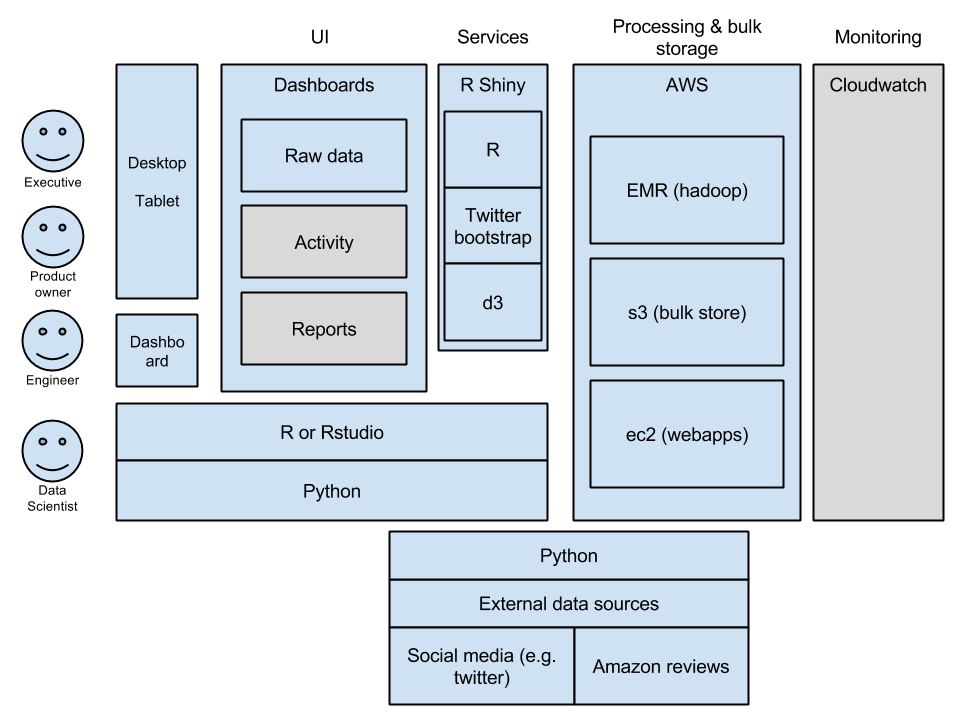
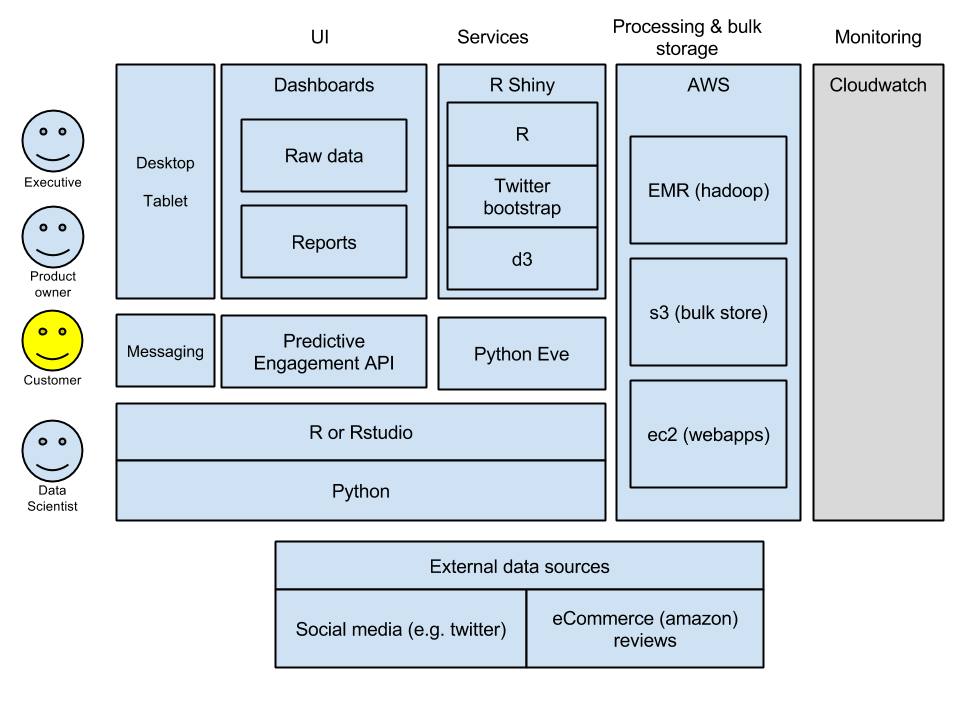
updated content and added more images

diff --git a/index.html b/index.html
@@ -31,39 +31,70 @@
     <!-- MAIN CONTENT -->
     <div id="main_content_wrap" class="outer">
       <section id="main_content" class="inner">
-        <h3>Overview of solution</h3>
-        <p>Executive overview</p>
-        <p>This is the submission for the Skullcandy dataset for the Big Mountain Data Competition.</p>
+        <h3>Executive overview</h3>
+        <p>This is our submission for the Skullcandy dataset for the Big Mountain Data Competition. We have taken careful consideration of both the questions posed in the competition documents, the kinds of data we could go after for a POC that would require minimal additional input from Skullcandy, and what we have seen in the way of trends at Skullcandy at large. We think there is a strong case to be made for greater involvement of predictive analytics in supporting Skullcandy’s ecommerce business and in establishing a strong Skullcandy customer electronics brand synonymous with personalized, individual, high-energy, and somewhat irreverent.</p>
+        <p>Our solution recommends incorporating BigData collection and predictive analytics at various customer touch points:</p>
         <ul>
-          <li>Using bigdata and machine learning methodologies to improve and simplify the process of managing brand image with multiple target audiences</li>
-          <li>Using bigdata and machine learning methodologies to identify key "archetype" individuals/muses wanting to engage with your brand</li>
-          <li>Using cloud resources to develop a cost effective POC for data collection, processing, and real-time responsive engagement from Skullcandy to their target audiences</li>
+          <li>Customer satisfaction and follow up surveys that allow for social media data gathering</li>
+          <li>Market validation surveys (e.g. buds subscription services) that allow for social media data gathering</li>
+          <li>Customer off-website (e.g. social media) engagement that uses dynamic messaging predicted to increase brand loyalty and begin fostering new customers</li>
+          <li>Personalized Amazon/ecommerce check-out experience with offers that are a reflection of predicted customer lifetime value</li>
         </ul>
-        <img src="images/bmdc_arch.png">j
-<p>Team members:</p>
+        <h3>Details regarding the submission</h3>
+        <p>We feel that with any solution that leverages BigData and machine learning (advanced analytics) there is a maturation that takes place in an organization. This maturation is the process of going from being reactive and primarily relying on domain expertise and instincts to leveraging sophisticated analyitics as a distinct competitive advantage. As an organization grows it’s need for sophisticated analytics it usually happens as the organization seeks the answer more and more difficult questions such as those proposed by Harris & Davenport in their book “Competing on Analyitics: The New Science of Winning”:</p>
+        <ol>
+          <li>Why is this happening? (statistical analysis)</li>
+          <li>What if these trends continue? (forecasting)</li>
+          <li>What will happen next? (predictive modeling)</li>
+          <li>What is the best that can happen? (optimization)</li>
+        </ol>
+        <p>In our proposed solutions we concentrated on how Skullcandy might use advanced analytics to support their growing efforts at creating a brand focused company in addition to being an ecommerce company. We feel that with Skullcandy’s trackrecord in the market-place that they potentially could juggle several facets of their brand image with help from advanced analytics. This would avail them of the option of attacking several target audiences to help Skullcandy establish a brand that is about consumer electronics that are personal, individualized, high-energy, and irreverent.</p>
+        <p>If Skullcandy were simply a one-dimensional brand focused on say, hip-hop culture, having supportive analytics would be helpful but not crucial to success. But Skullcandy appears to be taking a much more ambitious route: personalization. This does not mean that the Skullcandy’s brand need be dilute, just the opposite. By being about personal taste and by giving customers a way to express themselves Skullcandy could become an extension of each of their customers’ personal image -- potentially a very strong brand.</p>
+        <p>Digesting and reacting to the information needed to pull this off is a problem ideally situated to be supported by BigData and machine learning analytics.</p>
+        <p>In our solution we have developed an early POC of how Skullcandy might:</p>
+        <ul>
+          <li>Use BigData collection to improve and simplify the process of discovering how users perceive and engage with Skullcandy</li>
+          <li>Use real-time, predictive, analytics to identify “natural” clusters of users that fit an "archetype" user</li>
+          <li>Compare “archetype” users to internal “muses” or target audiences to help dial-in dynamic messaging and placement</li>
+          <li>Use predictive analytics to target key audiences in specific situations (e.g. male snowboarder that is a likely customer that just posted about a day on the slopes)</li>
+          <li>Use cloud resources to develop a cost effective, production ready, POC for data collection, data processing, and creating real-time responsive engagement from Skullcandy to their target audiences</li>
+        </ul>
+        <h3>Summary of Deliverables and Recommendations</h3>
+        <h4>Using predictive analytics in establishing Skullcandy's brand and improving the e-commerce experience</h4>
+        <img src="Engagement.png">
+        <p>To help compare brands and their relationships to dominant target audiences we provide the following dashboard. This dashboard lets you interactively visualize the brand and customer segments. We explain this dashboard in further detail <a href="#walkthrough">below</a>.</p>
+        <p><a href="http://ec2-54-188-7-50.us-west-2.compute.amazonaws.com:3838/shiny-app/">Click here to see live dashboard</a></p>
+        <a href="http://ec2-54-188-7-50.us-west-2.compute.amazonaws.com:3838/shiny-app/">
+        <h4>Example data collection with a focus on engagement</h4>
+        <p>We recommend using a satisfaction survey or market survey with social login to collect additional information on your core customer base. We built this simple app in Python Django framework to help with the data collection from Twitter.</p>
+        <p><a href="http://ec2-54-202-248-221.us-west-2.compute.amazonaws.com/">Click here to see live demo survey app</a></p>
+        <img src="twitter-survey-app.png">
+        <h4>Example dynamic messaging with predictive social engagement</h4>
+        <img src="example.png">
+        <h4>Example predictive engagement</h4>
+        <p>Last, we suggest a simple but very effective social engagement strategy. During the checkout process, a customer can choose to share their excitement of the purchase with their facebook friends or twitter followers. In doing so we can predict the lifetime value of that customer and provide an immediate incentive. In return we collect additional information about them through increased access to their social data as well as immediate boost in grassroots marketing.</p>
+        <p>Below is an image of a similar type of engagement already common in Amazon’s checkout process.</p>
+        <img src="amazonthanks.png">
+        <h3>Technical overview</h3>
+        <img src="bmdc_skullcandy.png">
+        <h3 id="walkthrough">Brand comparision app walkthrough</h3>
+        <p>The app is an interactive tool for exploring relative differences in customer engagement on each of the relevant brands.</p>
+        <img src="dasboard.png">
+        <p>An overall sentiment score is presented over time as computed by the total aggregate of relevant product reviews on Amazon. A similar score can be plotted by scoring relevent tweets or other social feeds over time.</p>
+        <img src="brand-sentiment.png">
+        <h4>Main social sentiment trend lines over time</h4>
+        <p>It is important to react to and engage with customers and potential customers in their channels. The next section helps sort through the noise to identify key drivers in overall brand sentiment. Sorting and clustering these help identify key trends in products or product categries.</p>
+        <img src="product-reviews.png">
+        <h4>Segmenting customers and competitors' customers</h4>
+        <p>Segmenting your entire customer base helps identify strengths and opportunities. Being able to compare your customer segments to those same segments of your competitors is huge insight. The final section helps you see how your twitter followers overlap with those followers of other key brands.</p>
+        <h4>Social sentiment dashboard app</h4>
+        <img src="dashboard.png"></a>
+<h3>Team members:</h3>
 <ul>
   <li><a href="http://www.linkedin.com/in/altonalexander">Alton Alexander</a></li>
   <li><a href="http://www.linkedin.com/pub/brett-denney/19/46a/207">Brett Denney</a></li>
   <li><a href="http://www.linkedin.com/in/davidbgonzalez">David Gonzalez</a></li>
 </ul>
-
-<h3>Skullcandy's problem statements and our proposed solutions</h3>
-    <h4>Problem 1: Who are the non-customers who follow us and visit the same websites as our customers?</h4>
-    <p>We decided that it with the dataset available and the data we could go after to take a look at Skullcandy's twitter followers and to build a generalized profile of those individuals. From there we collected information about individuals following Skullcandy's competition. What we were able to generate is a dashboard that helps to visuzalize how Skullcandy's followers engage the compettion as well as why types types of individuals follow the competition but do not follow Skullcandy.</p>
-    <p>How are followers and non-followers similar/different?</p>
-    <h4>Problem 2: Who might be interested in a buds "subscription"?</h4>
-    <p>Who are the heavy users? Customer IDs with multiple purchases</p>
-    <h4>Problem 3:</h4>
-    <h5>Can we correlate competitor sentiment with their sales (NPD Data) or with our sales?</h5>
-    <p>Timeseries of customer sentiment over time with respect to each competitors product and Skullcandy's products using Amazon reviews.</p>
-    <h5>How can we predict competitor sentiment (positive or negative>, react to it more quickly, and take action to minimize competitor benefit and maximize our benefit?</h5>
-    <p>Work up of the Amazon reviews and high prestige reviewers</p>
-    <h5>How can real-time answers and actions be taken?</h5>
-    <p>Automated watching of social media looking for key signals</p>
-    <p>Automated watching of Amazon reviews looking for high prestige reviewers to weigh in, engage them preemptively, watch for newer reviewers gaining traction.</p>
-    <h4>Problem 4: Is someone who recently purchased a cell phone, or gaming console, now a likely purchaser of headphones, headsets, or earbuds? and How do we identify these individuals and markets appropriately?</h4>
-    <p>Work up of customers/archetypes as well as purchasers (e.g. mom and grandma)</p>
-
       </section>
     </div>
 
